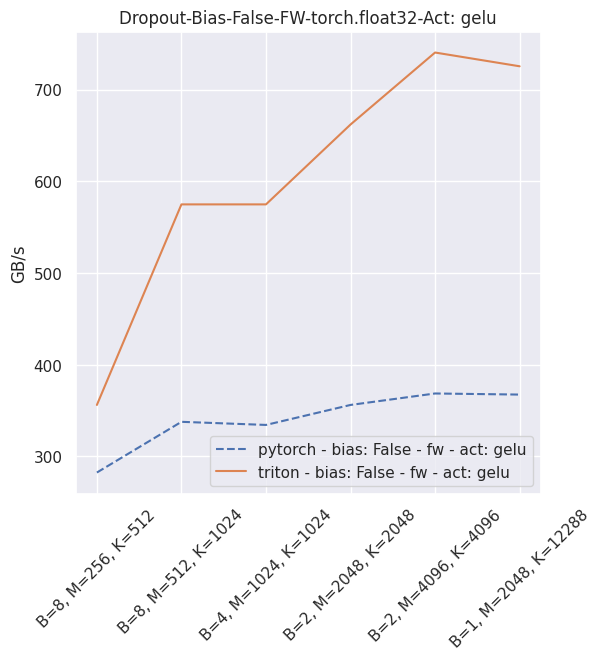
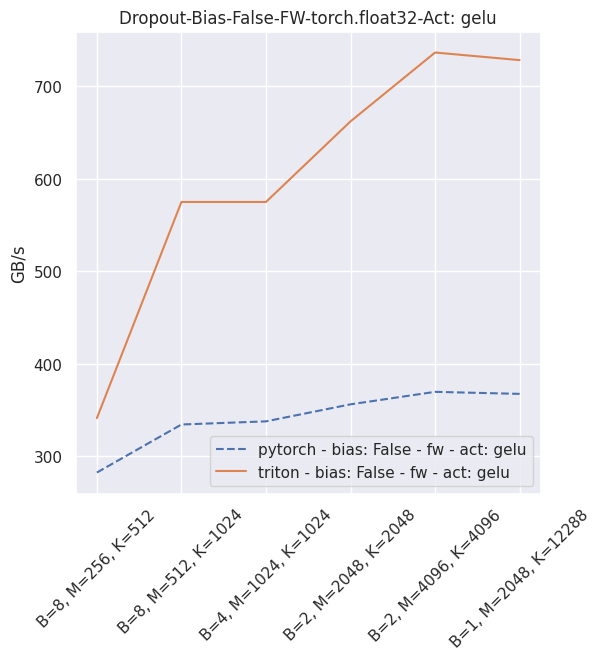
- adding a dedicated benchmark, better unit test - moving to a tile based approach to better handle big buffers - trying to find better scheduling defaults

diff --git a/xformers/triton/k_sum.py b/xformers/triton/k_sum.py
@@ -10,46 +10,56 @@ import triton.language as tl
 # fmt: off
 @triton.autotune(
     configs=[
-        triton.Config({"BLOCK_N": 4}, num_warps=1),
-        triton.Config({"BLOCK_N": 8}, num_warps=2),
-        triton.Config({"BLOCK_N": 16}, num_warps=4),
-        triton.Config({"BLOCK_N": 32}, num_warps=8),
-        triton.Config({"BLOCK_N": 64}, num_warps=16),
+        triton.Config({"BLOCK_M": 32, "BLOCK_N": 32}, num_warps=1),
+        triton.Config({"BLOCK_M": 64, "BLOCK_N": 32}, num_warps=1),
+        triton.Config({"BLOCK_M": 128, "BLOCK_N": 16}, num_warps=1),
+        triton.Config({"BLOCK_M": 256, "BLOCK_N": 8}, num_warps=2),
+        triton.Config({"BLOCK_M": 512, "BLOCK_N": 8}, num_warps=2),
+        triton.Config({"BLOCK_M": 1024, "BLOCK_N": 8}, num_warps=2),
+        triton.Config({"BLOCK_M": 2048, "BLOCK_N": 8}, num_warps=2),
+        triton.Config({"BLOCK_M": 4096, "BLOCK_N": 8}, num_warps=2),
     ],
-    key=["M", "N"],
-)
-@triton.heuristics(
-    values={"BLOCK_SIZE": lambda *args, **_: triton.next_power_of_2(args[-2])}
+    key=["M", "N", "is_fp16"],
 )
 @triton.jit
 def k_sum_0(
-    Y,
-    X,
+    Y, X,
     stride_xm,
-    M,
-    N,
-    **meta,  # extra parameters which can be automatically filled in given some heuristics
+    M, N,
+    is_fp16,
+    **meta,
 ):
     # fmt: om
 
     """
-    Sum a 2d tensor over the first (strided) dimension
+    Sum a 2d tensor over the first (strided) dimension.
+    This extracts some speed through a parallel sum across the second dimension
     """
+    BLOCK_M = meta["BLOCK_M"]
+    BLOCK_N = meta["BLOCK_N"]
 
-    # row indices. We'll reduce over this dimension
-    m = tl.arange(0, meta["BLOCK_SIZE"])
+    # partial row indices. We'll reduce over this dimension
+    m = tl.arange(0, BLOCK_M)
 
-    # To get some extra parallelization, we can try to handle several columns in the same thread block
-    n = tl.program_id(0)
-    rn = n * meta["BLOCK_N"] + tl.arange(0, meta["BLOCK_N"])
+    # To get some extra parallelization, we handle several columns in the same thread block
+    rn = tl.program_id(axis=0) * BLOCK_N + tl.arange(0, BLOCK_N)
 
     # the memory address of all the elements that we want to load can be computed as follows
     x_ptrs = X + m[:, None] * stride_xm + rn[None, :]
+    x_sum = tl.zeros((BLOCK_N,), dtype=tl.float32)
 
-    # load input data; pad out-of-bounds elements with 0
-    # NOTE: make sure to accumulate in fp32 to prevent a trivial overflow
-    mask = (m[:, None] < M) & (rn[None, :] < N)
-    x = tl.load(x_ptrs, mask=mask, other=0.0).to(tl.float32)
-    x = tl.where(mask, x, 0.0)
-    x_sum = tl.sum(x, 0)
+    tiles = tl.cdiv(M, BLOCK_M)
+    col_mask = (rn[None, :] < N)
+
+    for _ in range(tiles):
+        # load input data; pad out-of-bounds elements with 0
+        # NOTE: make sure to accumulate in fp32 to prevent a trivial overflow
+        mask = (m[:, None] < M) & col_mask
+        x = tl.load(x_ptrs, mask=mask, other=0.0)
+        x_sum += tl.sum(x, 0)
+
+        # move the load pointer
+        x_ptrs += BLOCK_M * stride_xm
+        m += BLOCK_M  # update the mask check
+
     tl.store(Y + rn, x_sum, mask=rn < N)

diff --git a/xformers/benchmarks/benchmark_triton_stride_sum.py b/xformers/benchmarks/benchmark_triton_stride_sum.py
@@ -1,0 +1,71 @@
+# Copyright (c) Facebook, Inc. and its affiliates. All rights reserved.
+#
+# This source code is licensed under the BSD license found in the
+# LICENSE file in the root directory of this source tree.
+
+from typing import Any, Dict, List
+
+import torch
+import triton
+
+from xformers.benchmarks.utils import TestCase, pretty_plot, pretty_print
+from xformers.triton.sum_strided import sum_2d_dim_0
+
+SHAPES = [
+    (128, 128),
+    (384, 128),
+    (784, 512),
+    (1024, 768),
+    (2048, 1024),
+    (4096, 4096),
+]
+
+
+def to_gbs(a, ms):
+    # Read the full array, write the non-reduced dimension
+    return ((a.numel() + a.shape[1]) * a.element_size() * 1e-9) / (ms * 1e-3)
+
+
+def bench_functions(
+    test_cases: List[TestCase], shapes, metric_transform, unit, title=""
+):
+    device = torch.device("cuda")
+
+    for dtype in [torch.float16, torch.float32]:
+        results: Dict[str, Any] = {}
+
+        for M, N in shapes:
+            a = torch.rand(M, N, device=device, dtype=dtype, requires_grad=True)
+
+            for testcase in test_cases:
+                time = triton.testing.do_bench(lambda: testcase.function(a))[0]
+
+                metric = metric_transform(a, time)
+
+                key = f"M={M}, N={N}"
+                if key not in results:
+                    results[key] = {}
+
+                results[key][testcase.name] = f"{metric:.1f}"
+
+        _type = " fp16" if dtype == torch.float16 else " fp32"
+
+        pretty_print(
+            results,
+            title=" ------------- Type: {} ------------- ".format(_type),
+            units=unit,
+        )
+
+        pretty_plot(results, title + _type, unit, dash_key="pytorch")
+
+
+bench_functions(
+    [
+        TestCase(lambda x: torch.sum(x, dim=0), "pytorch"),
+        TestCase(sum_2d_dim_0, "triton"),
+    ],
+    SHAPES,
+    to_gbs,
+    "GB/s",
+    "Strided_sum",
+)

diff --git a/xformers/triton/k_dropout.py b/xformers/triton/k_dropout.py
@@ -19,54 +19,6 @@ _k_configs = [
 ]
 
 
-def get_depth(*args, **_):
-    return triton.next_power_of_2(args[-1])
-
-
-# autotune: Triton will test out these configurations, and automatically pick the fastest one.
-# heuristic: add arguments to the kernel call automatically given some heuristics. These arguments are passed in "meta"
-# fmt: off
-@triton.autotune(
-    configs=[
-        triton.Config({"BLOCK_N": 1}, num_warps=4),
-        triton.Config({"BLOCK_N": 2}, num_warps=4),
-        triton.Config({"BLOCK_N": 8}, num_warps=4),
-        triton.Config({"BLOCK_N": 1}, num_warps=8),
-        triton.Config({"BLOCK_N": 2}, num_warps=8),
-        triton.Config({"BLOCK_N": 8}, num_warps=8),
-    ],
-    key=["M", "N"],
-)
-@triton.heuristics(values={"depth": get_depth})
-@triton.jit
-def k_sum_0(
-    Y, X,
-    stride_xm,
-    M, N,
-    **meta,  # extra parameters which can be automatically filled in given some heuristics
-):
-    # fmt: om
-
-    """
-    Sum a 2d tensor over the first dimension
-    """
-
-    n = tl.program_id(0)
-
-    # row indices
-    m = tl.arange(0, meta["depth"])
-    rn = n * meta["BLOCK_N"] + tl.arange(0, meta["BLOCK_N"])
-
-    # the memory address of all the elements that we want to load can be computed as follows
-    x_ptrs = X + m[:, None] * stride_xm + rn[None, :]
-
-    # load input data; pad out-of-bounds elements with 0
-    x = tl.load(x_ptrs, mask=(m[:, None] < M) & (rn[None, :] < N), other=0.)
-
-    x_sum = tl.sum(x, 0)
-    tl.store(Y + rn, x_sum, mask=rn < N)
-
-
 @triton.jit
 def _drop_and_scale(SEEDS, row, p, offsets, x):
     # randomly prune the weights

diff --git a/tests/test_triton_basics.py b/tests/test_triton_basics.py
@@ -9,15 +9,16 @@ import torch
 
 SHAPES = [
     (384, 128),
+    (8 * 384, 128),
     (34, 128),
-    (8, 128),
-    (8, 512),
-    (4, 384),
-    (4, 1024),
-    (2, 2048),
-    (2, 4096),
-    (2, 4096),
-    (1, 12288),
+    (16, 128),
+    (16, 512),
+    (8, 384),
+    (8, 1024),
+    (8, 2048),
+    (8, 4096),
+    (8, 4096),
+    (4, 12288),
 ]
 
 
@@ -114,7 +115,9 @@ if _triton_available:
 
         torch_sum = torch.sum(a, dim=0)
         triton_sum = sum_2d_dim_0(a)
-        assert torch.allclose(torch_sum, triton_sum)
+        assert torch.allclose(
+            torch_sum, triton_sum, rtol=0.01
+        ), f"{torch_sum}\n{triton_sum}"
 
     def test_sum_strided_asserts():
         torch.random.manual_seed(0)
@@ -127,4 +130,9 @@ if _triton_available:
         a = torch.rand((3, 128, 256), device=torch.device("cuda"), dtype=torch.float16)
         with pytest.raises(AssertionError):
             # This kernel expects 2D tensors, assert to prevent misuse
+            sum_2d_dim_0(a)
+
+        a = torch.rand((2, 128), device=torch.device("cuda"), dtype=torch.float16)
+        with pytest.raises(AssertionError):
+            # This kernel cannot sum over dimensions < 4
             sum_2d_dim_0(a)

diff --git a/xformers/triton/sum_strided.py b/xformers/triton/sum_strided.py
@@ -20,6 +20,11 @@ def sum_2d_dim_0(x: torch.Tensor):
     assert (
         x.ndim == 2
     ), "This is a very specific kernel, only for 2-dim tensors and summing along dim 0"
+    M, N = x.shape
+
+    assert (
+        M >= 4
+    ), "This is a very specific kernel, requires the reduction dimension to be bigger than 4"
 
     assert x.stride(1) == 1, (
         "We're expecting x to be contiguous along dim 1, and non contiguous along dim 0.\n"
@@ -27,8 +32,15 @@ def sum_2d_dim_0(x: torch.Tensor):
     )
 
     def grid(meta):
-        return (triton.cdiv(x.shape[1], meta["BLOCK_N"]),)
+        return (triton.cdiv(N, meta["BLOCK_N"]),)
 
-    k_sum_0[grid](out, x, x.stride(0), x.shape[0], x.shape[1])
+    # fmt: off
+    k_sum_0[grid](
+        out, x,
+        x.stride(0),
+        M, N,
+        x.dtype == torch.float16,
+    )
+    # fmt: on
 
     return out

diff --git a/xformers/triton/k_fused_matmul_bw.py b/xformers/triton/k_fused_matmul_bw.py
@@ -10,6 +10,8 @@ import torch
 import triton
 import triton.language as tl
 
+from xformers.triton.sum_strided import sum_2d_dim_0
+
 
 # fmt: off
 @triton.heuristics({
@@ -144,6 +146,6 @@ def fused_matmul_backward(
     # The following ops can also be handled by triton
     grad_in = grad_out_ @ weight
     grad_weight = grad_out_.transpose(1, 0) @ inputs_ if trainable_weight else None
-    grad_bias = torch.sum(grad_out_, 0) if trainable_bias else None
+    grad_bias = sum_2d_dim_0(grad_out_) if trainable_bias else None
 
     return grad_in.reshape_as(inputs), grad_weight, grad_bias

diff --git a/tests/test_triton_dropout.py b/tests/test_triton_dropout.py
@@ -151,4 +151,4 @@ def test_dropout_parity(shape, amp, bias, activation, p):
             if bias:
                 assert torch.allclose(
                     torch.norm(b.grad), torch.norm(b_.grad), rtol=0.01
-                ), f"{b.grad}\n{b_.grad}"
+                ), f"{b.grad.norm()}\n{b_.grad.norm()}"

diff --git a/xformers/benchmarks/benchmark_triton_dropout.py b/xformers/benchmarks/benchmark_triton_dropout.py
@@ -18,8 +18,8 @@ SHAPES = [
     (8, 512, 1024),
     (4, 1024, 1024),
     (2, 2048, 2048),
-    (2, 4096, 4096),
     (1, 2048, 12288),
+    (2, 4096, 4096),
 ]
 
 P = 0.1
